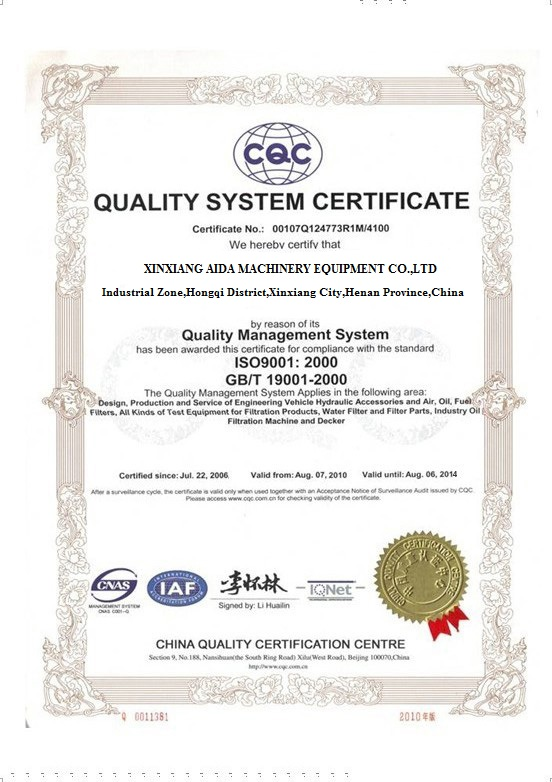
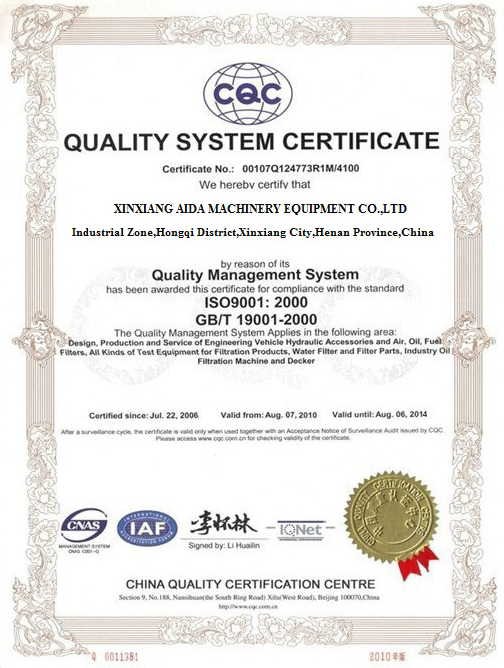
add concatus

diff --git a/public/css/aboutus.css b/public/css/aboutus.css
@@ -29,5 +29,5 @@
     vertical-align: top;
 }
 .aboutus-c2 img{
-	width:100%;
+	width:90%;
 }
